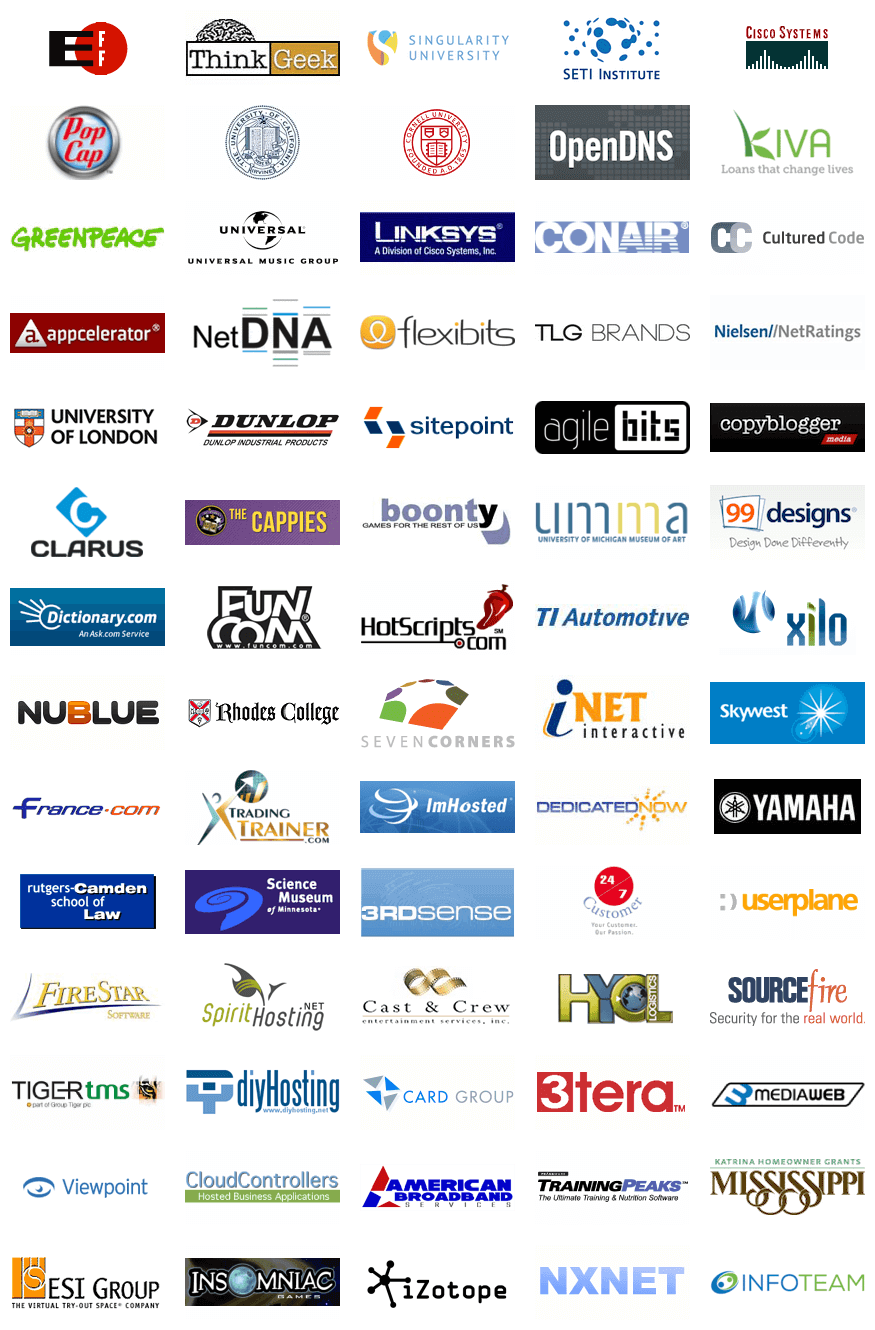
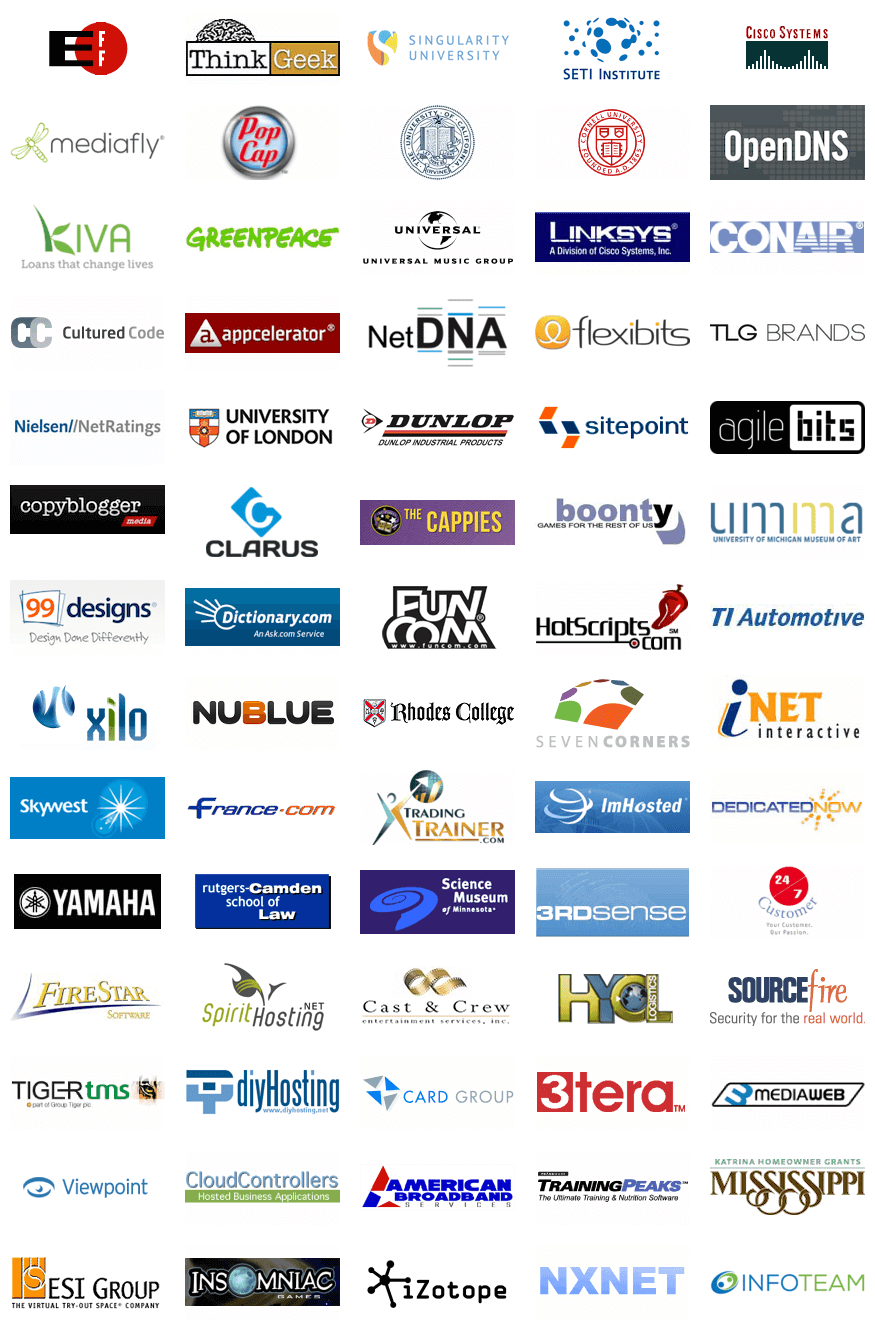
[Clients] Added Mediafly testimonial to the clients page.

Changed region(s): [[0.0, 0.3083, 0.9874, 0.709], [0.0, 0.0617, 0.9874, 0.3391]]

diff --git a/_sass/_cerb.scss b/_sass/_cerb.scss
@@ -570,51 +570,51 @@ span.client-thinkgeek-com { background: url(/assets/cerb-clients.png) -185px -10
 span.client-singularityu-org { background: url(/assets/cerb-clients.png) -360px -10px; }
 span.client-seti-org { background: url(/assets/cerb-clients.png) -535px -10px; }
 span.client-cisco-com { background: url(/assets/cerb-clients.png) -710px -10px; }
-span.client-popcap-com { background: url(/assets/cerb-clients.png) -10px -105px; }
-span.client-uci-edu { background: url(/assets/cerb-clients.png) -185px -105px; }
-span.client-cornell-edu { background: url(/assets/cerb-clients.png) -360px -105px; }
-span.client-opendns-com { background: url(/assets/cerb-clients.png) -535px -105px; }
-span.client-kiva-org { background: url(/assets/cerb-clients.png) -710px -105px; }
-span.client-greenpeace-org { background: url(/assets/cerb-clients.png) -10px -200px; }
-span.client-universalmusic-com { background: url(/assets/cerb-clients.png) -185px -200px; }
-span.client-linksys-com { background: url(/assets/cerb-clients.png) -360px -200px; }
-span.client-conair-com { background: url(/assets/cerb-clients.png) -535px -200px; }
-span.client-culturedcode-com { background: url(/assets/cerb-clients.png) -710px -200px; }
-span.client-appcelerator-com { background: url(/assets/cerb-clients.png) -10px -295px; }
-span.client-netdna-com { background: url(/assets/cerb-clients.png) -185px -295px; }
-span.client-flexibits-com { background: url(/assets/cerb-clients.png) -360px -295px; }
-span.client-tlgbrands-com { background: url(/assets/cerb-clients.png) -535px -295px; }
-span.client-netratings-com { background: url(/assets/cerb-clients.png) -710px -295px; }
-span.client-london-ac-uk { background: url(/assets/cerb-clients.png) -10px -390px; }
-span.client-dunlopindustrial-co-za { background: url(/assets/cerb-clients.png) -185px -390px; }
-span.client-sitepoint-com { background: url(/assets/cerb-clients.png) -360px -390px; }
-span.client-agilebits-com { background: url(/assets/cerb-clients.png) -535px -390px; }
-span.client-copyblogger-com { background: url(/assets/cerb-clients.png) -710px -390px; }
-span.client-clarusmarketing-com { background: url(/assets/cerb-clients.png) -10px -485px; }
-span.client-cappies-com { background: url(/assets/cerb-clients.png) -185px -485px; }
-span.client-boonty-com { background: url(/assets/cerb-clients.png) -360px -485px; }
-span.client-umma-umich-edu { background: url(/assets/cerb-clients.png) -535px -485px; }
-span.client-99designs-com { background: url(/assets/cerb-clients.png) -710px -485px; }
-span.client-dictionary-com { background: url(/assets/cerb-clients.png) -10px -580px; }
-span.client-funcom-com { background: url(/assets/cerb-clients.png) -185px -580px; }
-span.client-hotscripts-com { background: url(/assets/cerb-clients.png) -360px -580px; }
-span.client-tiauto-com { background: url(/assets/cerb-clients.png) -535px -580px; }
-span.client-xilo-net { background: url(/assets/cerb-clients.png) -710px -580px; }
-span.client-nublue-co-uk { background: url(/assets/cerb-clients.png) -10px -675px; }
-span.client-rhodes-edu { background: url(/assets/cerb-clients.png) -185px -675px; }
-span.client-sevencorners-com { background: url(/assets/cerb-clients.png) -360px -675px; }
-span.client-inetinteractive-com { background: url(/assets/cerb-clients.png) -535px -675px; }
-span.client-skywest-com-au { background: url(/assets/cerb-clients.png) -710px -675px; }
-span.client-france-com { background: url(/assets/cerb-clients.png) -10px -770px; }
-span.client-tradingtrainer-com { background: url(/assets/cerb-clients.png) -185px -770px; }
-span.client-imhosted-com { background: url(/assets/cerb-clients.png) -360px -770px; }
-span.client-dedicatednow-com { background: url(/assets/cerb-clients.png) -535px -770px; }
-span.client-yamaha-com { background: url(/assets/cerb-clients.png) -710px -770px; }
-span.client-camlaw-rutgers-edu { background: url(/assets/cerb-clients.png) -10px -865px; }
-span.client-smm-org { background: url(/assets/cerb-clients.png) -185px -865px; }
-span.client-3rdsense-com { background: url(/assets/cerb-clients.png) -360px -865px; }
-span.client-247customer-com { background: url(/assets/cerb-clients.png) -535px -865px; }
-span.client-userplane-com { background: url(/assets/cerb-clients.png) -710px -865px; }
+span.client-mediafly-com { background: url(/assets/cerb-clients.png) -10px -105px; }
+span.client-popcap-com { background: url(/assets/cerb-clients.png) -185px -105px; }
+span.client-uci-edu { background: url(/assets/cerb-clients.png) -360px -105px; }
+span.client-cornell-edu { background: url(/assets/cerb-clients.png) -535px -105px; }
+span.client-opendns-com { background: url(/assets/cerb-clients.png) -710px -105px; }
+span.client-kiva-org { background: url(/assets/cerb-clients.png) -10px -200px; }
+span.client-greenpeace-org { background: url(/assets/cerb-clients.png) -185px -200px; }
+span.client-universalmusic-com { background: url(/assets/cerb-clients.png) -360px -200px; }
+span.client-linksys-com { background: url(/assets/cerb-clients.png) -535px -200px; }
+span.client-conair-com { background: url(/assets/cerb-clients.png) -710px -200px; }
+span.client-culturedcode-com { background: url(/assets/cerb-clients.png) -10px -295px; }
+span.client-appcelerator-com { background: url(/assets/cerb-clients.png) -185px -295px; }
+span.client-netdna-com { background: url(/assets/cerb-clients.png) -360px -295px; }
+span.client-flexibits-com { background: url(/assets/cerb-clients.png) -535px -295px; }
+span.client-tlgbrands-com { background: url(/assets/cerb-clients.png) -710px -295px; }
+span.client-netratings-com { background: url(/assets/cerb-clients.png) -10px -390px; }
+span.client-london-ac-uk { background: url(/assets/cerb-clients.png) -185px -390px; }
+span.client-dunlopindustrial-co-za { background: url(/assets/cerb-clients.png) -360px -390px; }
+span.client-sitepoint-com { background: url(/assets/cerb-clients.png) -535px -390px; }
+span.client-agilebits-com { background: url(/assets/cerb-clients.png) -710px -390px; }
+span.client-copyblogger-com { background: url(/assets/cerb-clients.png) -10px -485px; }
+span.client-clarusmarketing-com { background: url(/assets/cerb-clients.png) -185px -485px; }
+span.client-cappies-com { background: url(/assets/cerb-clients.png) -360px -485px; }
+span.client-boonty-com { background: url(/assets/cerb-clients.png) -535px -485px; }
+span.client-umma-umich-edu { background: url(/assets/cerb-clients.png) -710px -485px; }
+span.client-99designs-com { background: url(/assets/cerb-clients.png) -10px -580px; }
+span.client-dictionary-com { background: url(/assets/cerb-clients.png) -185px -580px; }
+span.client-funcom-com { background: url(/assets/cerb-clients.png) -360px -580px; }
+span.client-hotscripts-com { background: url(/assets/cerb-clients.png) -535px -580px; }
+span.client-tiauto-com { background: url(/assets/cerb-clients.png) -710px -580px; }
+span.client-xilo-net { background: url(/assets/cerb-clients.png) -10px -675px; }
+span.client-nublue-co-uk { background: url(/assets/cerb-clients.png) -185px -675px; }
+span.client-rhodes-edu { background: url(/assets/cerb-clients.png) -360px -675px; }
+span.client-sevencorners-com { background: url(/assets/cerb-clients.png) -535px -675px; }
+span.client-inetinteractive-com { background: url(/assets/cerb-clients.png) -710px -675px; }
+span.client-skywest-com-au { background: url(/assets/cerb-clients.png) -10px -770px; }
+span.client-france-com { background: url(/assets/cerb-clients.png) -185px -770px; }
+span.client-tradingtrainer-com { background: url(/assets/cerb-clients.png) -360px -770px; }
+span.client-imhosted-com { background: url(/assets/cerb-clients.png) -535px -770px; }
+span.client-dedicatednow-com { background: url(/assets/cerb-clients.png) -710px -770px; }
+span.client-yamaha-com { background: url(/assets/cerb-clients.png) -10px -865px; }
+span.client-camlaw-rutgers-edu { background: url(/assets/cerb-clients.png) -185px -865px; }
+span.client-smm-org { background: url(/assets/cerb-clients.png) -360px -865px; }
+span.client-3rdsense-com { background: url(/assets/cerb-clients.png) -535px -865px; }
+span.client-247customer-com { background: url(/assets/cerb-clients.png) -710px -865px; }
 span.client-firestarsoftware-com { background: url(/assets/cerb-clients.png) -10px -960px; }
 span.client-spirithosting-net { background: url(/assets/cerb-clients.png) -185px -960px; }
 span.client-castandcrew-com { background: url(/assets/cerb-clients.png) -360px -960px; }
